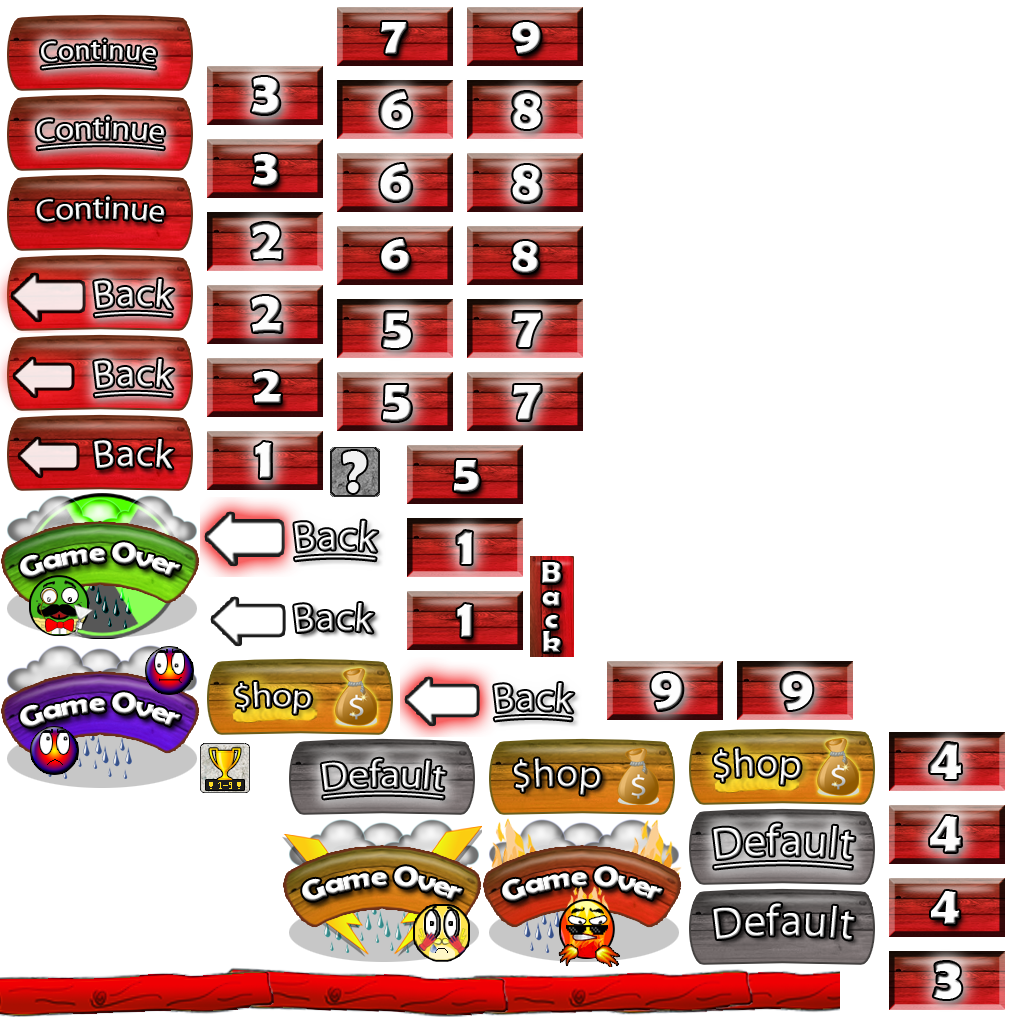
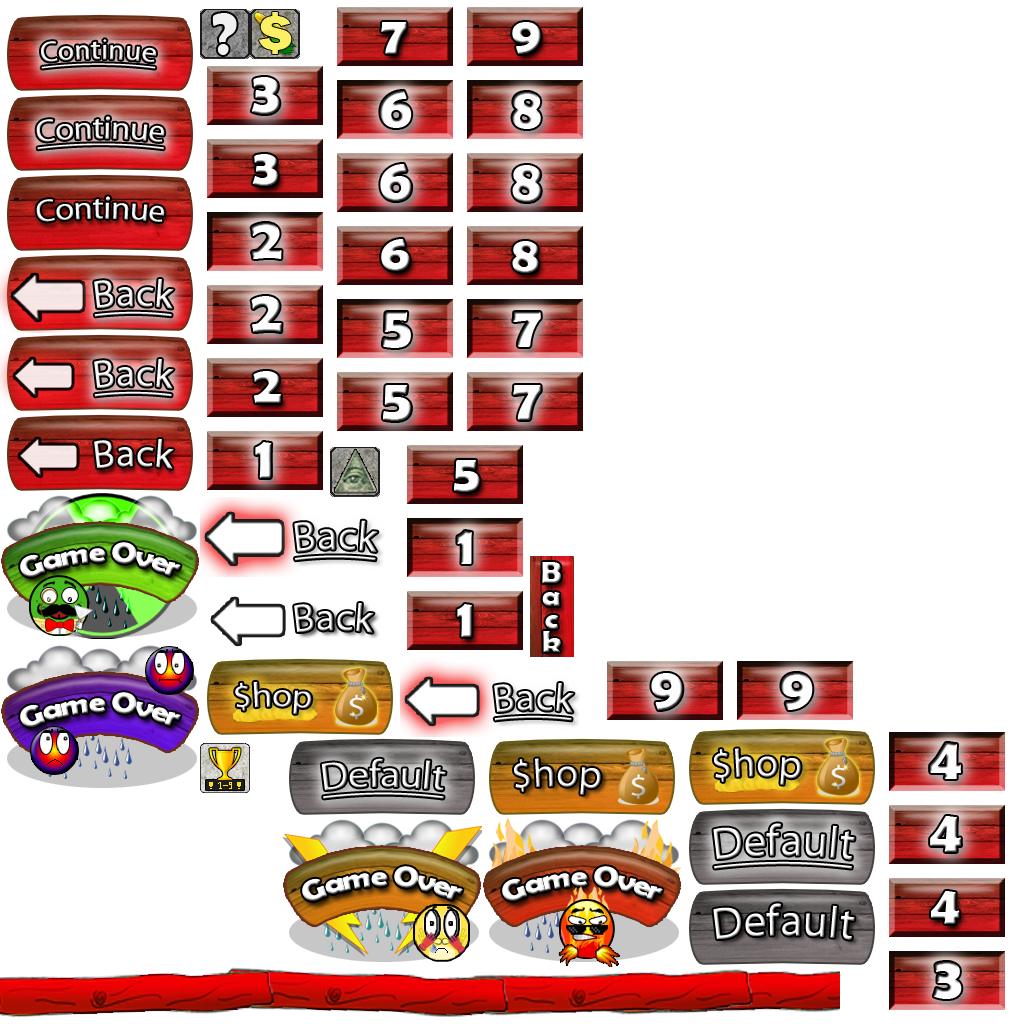
All 3 achievements unlockable

Changed region(s): [[0.1875, 0.0, 0.3125, 0.0625], [0.3125, 0.4375, 0.375, 0.5]]

diff --git a/core/src/com/aau/auris/game/screens/LevelScreen.java b/core/src/com/aau/auris/game/screens/LevelScreen.java
@@ -2,6 +2,8 @@ package com.aau.auris.game.screens;
 
 import java.util.ArrayList;
 
+import javax.swing.JButton;
+
 import com.aau.auris.game.AURISGame;
 import com.aau.auris.game.Asset.AssetLoader;
 import com.aau.auris.game.data.Player;
@@ -20,6 +22,8 @@ import com.badlogic.gdx.scenes.scene2d.InputListener;
 import com.badlogic.gdx.scenes.scene2d.ui.Image;
 import com.badlogic.gdx.scenes.scene2d.ui.ImageTextButton;
 import com.badlogic.gdx.scenes.scene2d.ui.ImageTextButton.ImageTextButtonStyle;
+import com.badlogic.gdx.scenes.scene2d.ui.Label;
+import com.badlogic.gdx.scenes.scene2d.ui.Label.LabelStyle;
 import com.badlogic.gdx.scenes.scene2d.ui.Skin;
 import com.badlogic.gdx.scenes.scene2d.ui.TextButton;
 import com.badlogic.gdx.scenes.scene2d.ui.TextButton.TextButtonStyle;
@@ -29,6 +33,7 @@ public class LevelScreen extends AbstractScreen
 {
 	//Asset
 	private Texture background;
+	private Texture ach1;
 	private TextureAtlas levelButtons;
 	private Sound clickSound;
 	private Sound hoverSound;
@@ -50,6 +55,7 @@ public class LevelScreen extends AbstractScreen
 	private TextButtonStyle tbDiff3Lvl1Style;
 	private TextButtonStyle tbDiff3Lvl2Style;
 	private TextButtonStyle tbDiff3Lvl3Style;
+	private Label infoLabel;
 
 	// Other
 	private Player player;
@@ -71,6 +77,7 @@ public class LevelScreen extends AbstractScreen
 		hoverWhistle2 = AssetLoader.hoverWhistle2;
 		hoverWhistle3 = AssetLoader.hoverWhistle3;
 		coinSound = AssetLoader.coinSound;
+		
 	}
 
 	@Override
@@ -83,7 +90,11 @@ public class LevelScreen extends AbstractScreen
 	protected void initComponents()
 	{
 		player = game.getPlayer();
-
+		
+		LabelStyle infoStyle= new LabelStyle();
+		infoStyle.font = bFont;
+		infoLabel=new Label("",infoStyle);
+		infoLabel.setPosition(game.getWidth()/2.2f, game.getHeight()-game.getHeight()/10);
 		skin = new Skin(levelButtons);
 		skin.add("default", bFont);
 
@@ -104,6 +115,7 @@ public class LevelScreen extends AbstractScreen
 
 		final float achiev_w = width + 10;
 		final float achiev_h = height;
+		
 
 		// Achievements
 		itbAchiev1Style = new ImageTextButtonStyle();
@@ -114,24 +126,89 @@ public class LevelScreen extends AbstractScreen
 		itbAchiev1.setBounds(x + 50, (s_height - (height)) - 55, achiev_w, achiev_h);
 		itbAchiev1.add(itbAchiev1.getImage()).row();
 		itbAchiev1.add(itbAchiev1.getLabel());
+		itbAchiev1.addListener(new InputListener(){
 
+			@Override
+			public void enter(InputEvent event, float x, float y, int pointer,
+					Actor fromActor) {
+				
+				super.enter(event, x, y, pointer, fromActor);
+				infoLabel.setText("Unlock all 9 levels! (+19$)");
+				
+			}
+
+			@Override
+			public void exit(InputEvent event, float x, float y, int pointer,
+					Actor toActor) {
+				// TODO Auto-generated method stub
+				super.exit(event, x, y, pointer, toActor);
+				infoLabel.setText("");
+			}
+			
+			
+		});
+		
 		itbAchiev2Style = new ImageTextButtonStyle();
 		itbAchiev2Style.font = bFont;
 		itbAchiev2Style.fontColor = Color.WHITE;
-		itbAchiev2Style.imageUp = skin.getDrawable("achLevels");
+		itbAchiev2Style.imageUp = skin.getDrawable("skinsAch");
 		ImageTextButton itbAchiev2 = new ImageTextButton("", itbAchiev2Style);
 		itbAchiev2.setBounds(itbAchiev1.getX() + (itbAchiev1.getWidth() * factor), itbAchiev1.getY(), itbAchiev1.getWidth(), itbAchiev1.getHeight());
 		itbAchiev2.add(itbAchiev2.getImage()).row();
 		itbAchiev2.add(itbAchiev2.getLabel());
+		itbAchiev2.addListener(new InputListener(){
+
+			@Override
+			public void enter(InputEvent event, float x, float y, int pointer,
+					Actor fromActor) {
+				
+				super.enter(event, x, y, pointer, fromActor);
+				infoLabel.setPosition(game.getWidth()/2.8f, game.getHeight()-game.getHeight()/10);
+				infoLabel.setText("Buy all skins in the shop!(+200 Score)");
+				
+			}
+
+			@Override
+			public void exit(InputEvent event, float x, float y, int pointer,
+					Actor toActor) {
+				// TODO Auto-generated method stub
+				super.exit(event, x, y, pointer, toActor);
+				infoLabel.setText("");
+				infoLabel.setPosition(game.getWidth()/2.2f, game.getHeight()-game.getHeight()/10);
+			}
+			
+			
+		});
 
 		itbAchiev3Style = new ImageTextButtonStyle();
 		itbAchiev3Style.font = bFont;
 		itbAchiev3Style.fontColor = Color.WHITE;
-		itbAchiev3Style.imageUp = skin.getDrawable("achLevels");
+		itbAchiev3Style.imageUp = skin.getDrawable("illuminatiAch");
 		ImageTextButton itbAchiev3 = new ImageTextButton("", itbAchiev3Style);
 		itbAchiev3.setBounds(itbAchiev2.getX() + (itbAchiev2.getWidth() * factor) - 15, itbAchiev2.getY(), itbAchiev1.getWidth(), itbAchiev1.getHeight());
 		itbAchiev3.add(itbAchiev3.getImage()).row();
 		itbAchiev3.add(itbAchiev3.getLabel());
+		itbAchiev3.addListener(new InputListener(){
+
+			@Override
+			public void enter(InputEvent event, float x, float y, int pointer,
+					Actor fromActor) {
+				
+				super.enter(event, x, y, pointer, fromActor);
+				infoLabel.setText("Find the easter egg! (+100$)");
+				
+			}
+
+			@Override
+			public void exit(InputEvent event, float x, float y, int pointer,
+					Actor toActor) {
+				// TODO Auto-generated method stub
+				super.exit(event, x, y, pointer, toActor);
+				infoLabel.setText("");
+			}
+			
+			
+		});
 
 		// Level Difficulty 1
 		tbDiff1Lvl1Style = new TextButtonStyle();
@@ -501,6 +578,8 @@ public class LevelScreen extends AbstractScreen
 
 		stage.addActor(tbBack);
 		stage.addActor(tbShop);
+		
+		stage.addActor(infoLabel);
 
 		stage.addListener(new InputListener()
 		{
@@ -606,14 +685,14 @@ public class LevelScreen extends AbstractScreen
 		for (int id : achievementUnlocks)
 		{
 			if (id == Achievement.ACHIEVEMENT_ID_1)
-			{
+			{	
 				itbAchiev1Style.imageUp = skin.getDrawable("achLevels");
 			} else if (id == Achievement.ACHIEVEMENT_ID_2)
 			{
-				itbAchiev2Style.imageUp = skin.getDrawable("achLevels");
+				itbAchiev2Style.imageUp = skin.getDrawable("skinsAch");
 			} else if (id == Achievement.ACHIEVEMENT_ID_3)
 			{
-				itbAchiev3Style.imageUp = skin.getDrawable("achLevels");
+				itbAchiev3Style.imageUp = skin.getDrawable("illuminatiAch");
 			}
 		}
 	}

diff --git a/core/src/com/aau/auris/game/Asset/AssetLoader.java b/core/src/com/aau/auris/game/Asset/AssetLoader.java
@@ -23,12 +23,14 @@ public class AssetLoader
 	public static Texture greenBall;
 	public static Texture yellowBall;
 	public static Texture redBall;
+	public static Texture laserSheet;
 	public static Texture menu_background;
 	public static TextureRegion[][] tmp;
 	public static TextureRegion[][] tmpDefault;
 	public static TextureRegion[][] tmpGreen;
 	public static TextureRegion[][] tmpYellow;
 	public static TextureRegion[][] tmpRed;
+	public static TextureRegion[][] tmpLaser;
 	public static TextureAtlas menu_buttons;
 	public static TextureAtlas levelButtons;
 	public static TextureAtlas levelgoals;
@@ -63,6 +65,8 @@ public class AssetLoader
 	public static Animation yellowCheerAnimation;
 	public static Animation greenCheerAnimation;
 	public static Animation redCheerAnimation;
+	
+	public static Animation laserAnimation;
 
 	// Sounds
 	public static Sound hoverSound1;
@@ -91,6 +95,7 @@ public class AssetLoader
 		greenBall = new Texture(Gdx.files.internal("textures/greenBored.png"));
 		yellowBall = new Texture(Gdx.files.internal("textures/yellowBored.png"));
 		redBall = new Texture(Gdx.files.internal("textures/redBored.png"));
+		laserSheet= new Texture(Gdx.files.internal("textures/laserSheet.png"));
 		menu_background = new Texture(Gdx.files.internal("textures/menu_background.png"));
 		menu_background_blank = new Texture(Gdx.files.internal("textures/backBlank2.png"));
 		menu_background_blank2 = new Texture(Gdx.files.internal("textures/backLevels.png"));
@@ -105,7 +110,8 @@ public class AssetLoader
 		tmpGreen = TextureRegion.split(greenBall, greenBall.getWidth() / FLY_COLS, greenBall.getHeight() / SPRITE_ROWS);
 		tmpYellow = TextureRegion.split(yellowBall, yellowBall.getWidth() / FLY_COLS, yellowBall.getHeight() / SPRITE_ROWS);
 		tmpRed = TextureRegion.split(redBall, redBall.getWidth() / FLY_COLS, redBall.getHeight() / SPRITE_ROWS);
-
+		tmpLaser = TextureRegion.split(laserSheet, laserSheet.getWidth() / FLY_COLS, laserSheet.getHeight() / 1);
+		
 		// Animations
 		TextureRegion[] parachuteFrames1 = new TextureRegion[FLY_COLS];
 		TextureRegion[] parachuteFrames2 = new TextureRegion[FLY_COLS];
@@ -126,6 +132,7 @@ public class AssetLoader
 		TextureRegion[] defaultCheerFrames= new TextureRegion[FLY_COLS];
 		TextureRegion[] greenCheerFrames= new TextureRegion[FLY_COLS];
 		TextureRegion[] yellowCheerFrames= new TextureRegion[FLY_COLS];
+		TextureRegion[] laserFrames= new TextureRegion[FLY_COLS];
 
 		for (int i = 0; i < FLY_COLS; i++)
 		{
@@ -148,6 +155,7 @@ public class AssetLoader
 			defaultCheerFrames[i]=tmpDefault[3][i];
 			greenCheerFrames[i]=tmpGreen[3][i];
 			yellowCheerFrames[i]=tmpYellow[3][i];
+			laserFrames[i]=tmpLaser[0][i];
 		}
 		defaultPopFrames[7] = tmpDefault[4][1];
 		yellowPopFrames[7] = tmpYellow[4][1];
@@ -197,7 +205,9 @@ public class AssetLoader
 		greenCheerAnimation.setPlayMode(Animation.PlayMode.LOOP_PINGPONG);
 		yellowCheerAnimation=new Animation(0.08f,yellowCheerFrames);
 		yellowCheerAnimation.setPlayMode(Animation.PlayMode.LOOP_PINGPONG);
-		
+		//Laser
+		laserAnimation= new Animation(0.08f,laserFrames);
+		laserAnimation.setPlayMode(Animation.PlayMode.LOOP);
 		// Sounds
 		hoverSound1 = Gdx.audio.newSound(Gdx.files.internal("sounds/hover1.wav"));
 		hoverSound2 = Gdx.audio.newSound(Gdx.files.internal("sounds/hover2.wav"));

diff --git a/core/src/com/aau/auris/game/screens/MenuScreen.java b/core/src/com/aau/auris/game/screens/MenuScreen.java
@@ -53,6 +53,7 @@ public class MenuScreen extends AbstractScreen
 	// Local variables
 	private SpriteBatch batch;
 	private float runTime;
+	Player player;
 
 	// Variables for HighScoreList
 	private HighScore highscore;
@@ -155,6 +156,7 @@ public class MenuScreen extends AbstractScreen
 
 	protected void initComponents()
 	{
+	
 		this.highscore = new HighScore(this.game);
 		this.menuballs = new ArrayList<MenuBall>();
 		this.lastBallTime = 0;
@@ -210,9 +212,13 @@ public class MenuScreen extends AbstractScreen
 				enableIlluminati = true;
 				menuMusic.pause();
 				chorusSound.play();
+				if(player != null){
+				player.addAchievementID(5);
+				
+				}
 				Timer.schedule(new Timer.Task()
 				{
-
+					
 					@Override
 					public void run()
 					{
@@ -397,6 +403,7 @@ public class MenuScreen extends AbstractScreen
 	public void show()
 	{
 		super.show();
+		player=game.getPlayer();
 		updateHighScoreList();
 	}
 

diff --git a/core/src/com/aau/auris/game/data/Player.java b/core/src/com/aau/auris/game/data/Player.java
@@ -56,8 +56,10 @@ public class Player
 			}
 		}
 		if (allLevelsCleared)
-		{
+		{			
 			addAchievementID(Achievement.ACHIEVEMENT_ID_1);
+			//TODO: 19 coins EINMALIG adden
+
 		}
 	}
 
@@ -155,8 +157,14 @@ public class Player
 		if (!hasAchievementUnlocked(id))
 		{
 			achievementUnlocks.add(id);
+			if(id==5){
+			addCredits(new Achievement(id).getCreditValue());	
+			}else
+			{
 			addPoints(new Achievement(id).getCreditValue());
+			}
 		}
+		
 	}
 
 	public boolean addBallSkinID(int id)
@@ -168,6 +176,10 @@ public class Player
 			{
 				skinUnlocks.add(id);
 				credits -= costs;
+				if(getSkinUnlocks().size()==4){
+					addAchievementID(4);
+
+				}
 				return true;
 			}
 		}

diff --git a/core/src/com/aau/auris/game/items/Achievement.java b/core/src/com/aau/auris/game/items/Achievement.java
@@ -8,9 +8,9 @@ public class Achievement implements Asset
 	public static final int ACHIEVEMENT_ID_1 = 3;
 	public static final int ACHIEVEMENT_ID_2 = 4;
 	public static final int ACHIEVEMENT_ID_3 = 5;
-	public static final int ACHIEVEMENT_1_POINTS = 5;
-	public static final int ACHIEVEMENT_2_POINTS = 5;
-	public static final int ACHIEVEMENT_3_POINTS = 5;
+	public static final int ACHIEVEMENT_1_POINTS = 19;
+	public static final int ACHIEVEMENT_2_POINTS = 200;
+	public static final int ACHIEVEMENT_3_POINTS = 100;
 
 	// Object Variables
 	private int id;
